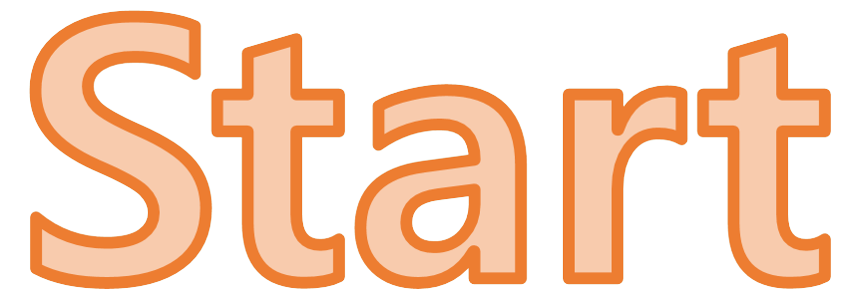
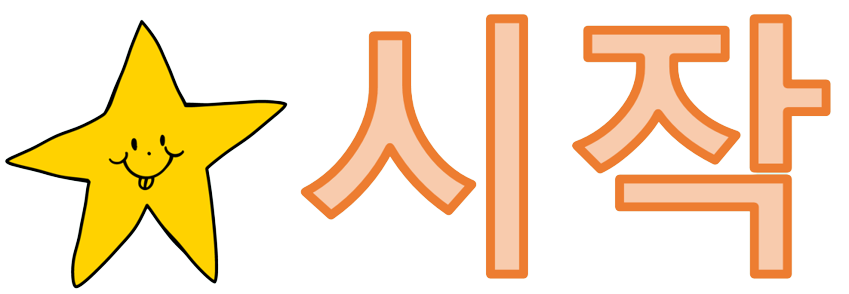
FE-FEAT : 홈 화면 정립
Former-commit-id: e2370ce34a92f5ae056624200c4cb8e696836bce

diff --git a/frontend/src/components/HomeMain.vue b/frontend/src/components/HomeMain.vue
@@ -1,11 +1,11 @@
 <template>
   <div class="hello">
-    <div style="width:80%; border:5px solid red; margin:auto; margin-top:5%;">
-      <img src="../assets/logo.png" alt="logo img" style="width:50%;" > 
+    <div style="width:80%;  margin:auto; margin-top:5%;">
+      <img src="../assets/logo.png" alt="logo img" style="width:60%;" > 
       
-      <div @click="nameSetVisible=true" style="cursor:pointer;">
-        <img src="../assets/star.png" alt="star img" style="height:24px;">
-        <img src="../assets/start.png" alt="start img" style="width:10%;">
+      <div @click="nameSetVisible=true" style="cursor:pointer; padding-top:20%;">
+        <!-- <img src="../assets/star.png" alt="star img" style="height:52px;"> -->
+        <img src="../assets/start.png" alt="start img" style="width:20%;">
       </div>
     </div>
 
